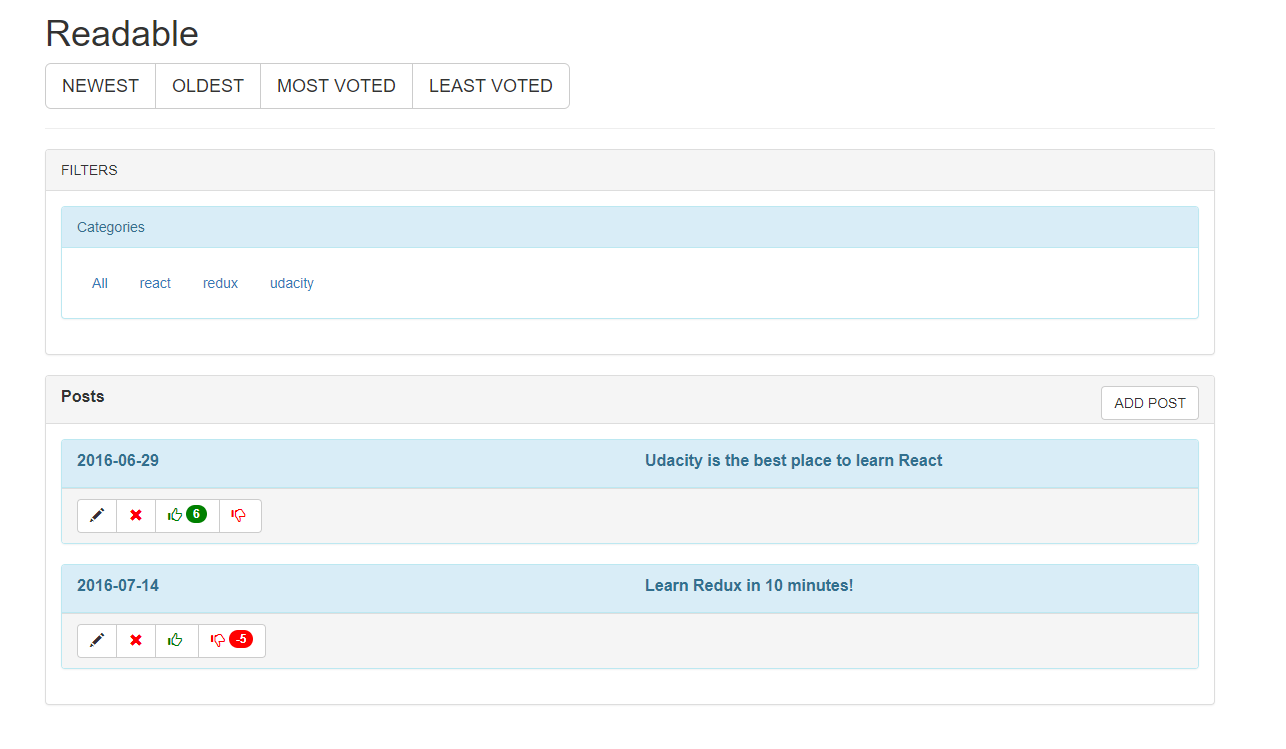
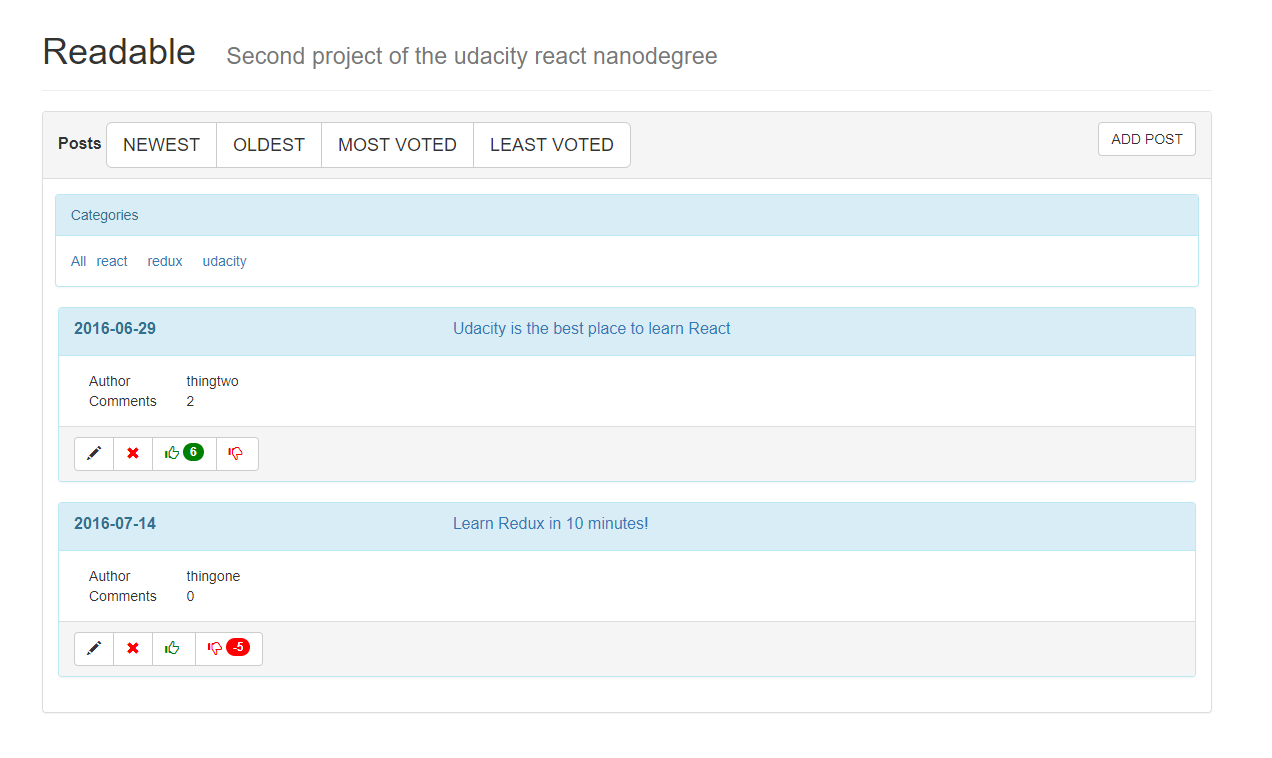
chore : Update project documentation fix : Add prop types for the project

diff --git a/frontend/src/components/PostDetail.js b/frontend/src/components/PostDetail.js
@@ -1,5 +1,6 @@
 import React, {Component} from 'react';
 import {connect} from 'react-redux';
+import PropTypes from 'prop-types';
 import {
     removePostAsync,
     voteForPostAsync,
@@ -72,8 +73,7 @@ class PostDetail extends Component {
               </Row>
               <Row>
                   <Col xs={12}>
-             
-								<ButtonGroup>
+                    <ButtonGroup>
                                 <Button onClick={() => (history.push('/'))}><Glyphicon glyph="chevron-left" /></Button>
 									<Button onClick={() => (this.openEditDialog(post))}><Glyphicon glyph="pencil" /></Button>
 									<Button onClick={() => (this.handleDelete(post.id))}>
@@ -87,12 +87,12 @@ class PostDetail extends Component {
                             </Col>
               </Row>
               <Row style={{marginTop:'1.5em'}}>
-               <Col xs={2}>
-               <Label>Author :</Label>
-               </Col>
-               <Col xs={6}>
-               {post.author}
-               </Col>
+                <Col xs={2}>
+                    <Label>Author :</Label>
+                </Col>
+                <Col xs={6}>
+                    {post.author}
+                </Col>
                </Row>
                <Row style={{marginBottom:'1.5em'}}>
                <Col xs={2}>
@@ -125,6 +125,17 @@ class PostDetail extends Component {
           </Grid>
         )
     }
+}
+
+PostDetail.propTypes = {
+    removePostAsync: PropTypes.func,
+    voteForPostAsync: PropTypes.func,
+    editPostAsync: PropTypes.func,
+    openDialog: PropTypes.func,
+    closeDialog: PropTypes.func,
+    postId: PropTypes.string.isRequired,
+    history: PropTypes.object.isRequired,
+    post: PropTypes.object.isRequired
 }
 
 const mapStateToProps = (state, ownProps) => ({

diff --git a/frontend/src/components/App.js b/frontend/src/components/App.js
@@ -1,5 +1,6 @@
 import React, { Component } from 'react';
 import {Switch,Route,withRouter} from 'react-router-dom';
+import PropTypes from 'prop-types';
 import Readable from './Readable';
 import PostDetail from './PostDetail';
 import NotFound from './NotFound';
@@ -35,7 +36,14 @@ componentDidMount() {
 	}
 }
 
-const mapStateToProps = (state, ownProps) => ({
+App.propTypes = {
+	categories: PropTypes.array.isRequired,
+	posts: PropTypes.array.isRequired,
+	fetchPosts: PropTypes.func.isRequired,
+	fetchCategories: PropTypes.func.isRequired
+}
+
+const mapStateToProps = (state) => ({
 	categories:state.categories.map((element)=>(element.path)),
 	posts:state.posts.postsArray.map((element)=>(element.id))
 })

diff --git a/frontend/src/components/Readable.js b/frontend/src/components/Readable.js
@@ -1,5 +1,6 @@
 import React, { Component } from 'react';
 import Posts from './Posts';
+import PropTypes from 'prop-types';
 import {
 	Grid,
 	Row,
@@ -21,6 +22,11 @@ class Readable extends Component {
 			</Grid>
 		);
 	}
+}
+
+Readable.propTypes = {
+	history: PropTypes.object.isRequired,
+	match: PropTypes.object.isRequired
 }
 
 export default Readable;

diff --git a/frontend/src/components/Comments.js b/frontend/src/components/Comments.js
@@ -61,7 +61,8 @@ Comments.propTypes = {
     editCommentAsync: PropTypes.func.isRequired,
     openCommentsDialog: PropTypes.func.isRequired,
     closeCommentsDialog: PropTypes.func,
-    addCommentAsync: PropTypes.func.isRequired
+    addCommentAsync: PropTypes.func.isRequired,
+    post: PropTypes.object
 
 }
 

diff --git a/frontend/src/components/Categories.js b/frontend/src/components/Categories.js
@@ -29,7 +29,8 @@ class Categories extends Component {
 }
 
 Categories.propTypes = {
-	fetchCategories: PropTypes.func.isRequired
+	fetchCategories: PropTypes.func.isRequired,
+	categories: PropTypes.array.isRequired
 }
 
 const mapStateToProps = (state) => ({

diff --git a/frontend/src/components/Post.js b/frontend/src/components/Post.js
@@ -30,7 +30,8 @@ class Post extends Component {
 
 
 Post.propTypes = {
-    post: PropTypes.object.isRequired
+    post: PropTypes.object.isRequired,
+    comments: PropTypes.array.isRequired
 }
 
 const mapStateToProps = (state, ownProps) => ({

diff --git a/frontend/src/components/CommentDetails.js b/frontend/src/components/CommentDetails.js
@@ -47,7 +47,7 @@ class CommentDetails extends Component {
     }
 
     render() {
-        let { comment } = this.props;
+        const { comment } = this.props;
         return (
             <Well >
                 <Grid>

diff --git a/frontend/README.md b/frontend/README.md
@@ -18,6 +18,7 @@ react-bootstrap components for the layout. It includes the following files:
   |-- index.js - application reducers
  +-- utils
   |-- api.js - calls to the backend API for retrieving and management of categories,comments and posts 
+  |-- helpers.js - Contains utility functions used in the application
  +-- components
   |-- App.js - Main application component.Renders the header,categories and posts components
   |-- Categories.js - Display of the posts' categories.Calls the action for filtering of posts by category
@@ -26,13 +27,16 @@ react-bootstrap components for the layout. It includes the following files:
   count of comments for a given post and a button for comments addition
   |-- CreateUpdateCommentDialog.js - Dialog for create/update of comments
   |-- CreateUpdatePostDialog.js - Add/edit posts dialog
-  |-- Header.js - Page Header components.Contains buttons for sorting of posts by vote and date
   |-- NotFound.js - 404 page of the app
-  |-- PostDetail.js - posts detail view component.Contains the author and body of a post and is rendered 
-  inside the post's panel 
+  |-- PostDetail.js - Displays detailed view for a post.Contains the post's body,voting mechanism and controls 
+  for update and deletion.Also displays the comments made for a given post and allows the user to add,edit or delete comments 
+  or vote for them.
+  |-- Post.js - Author and comments count for a given post. Visible on the main view of the posts
   |-- Posts.js - Main component for viewing the posts.Contains a panel with nested collapsible panels 
   for the posts.The button for new posts addition is on the panel's header.At the posts panels' footer 
   are the buttons for post edit,deletion and voting.
+  |-- Readable.js - Application main component.Contains the root view with the filters by category and
+  the buttons for addition,sorting,edit and deletion of posts.Allows the user to vote for posts.
 |-- .gitignore 
 |-- README.MD - This README file.
 |-- package.json - npm package manager file.
@@ -47,22 +51,21 @@ of categories for the posts and the posts panel with the button for adding a new
 
 ![Main screen](./assets/images/mainScreen.PNG)
 
-### Page header 
-
-![Header](./assets/images/header.PNG)
-
-Using the four buttons found at the page header,you can sort the posts in the following ways : 
-
-* NEWEST - by descending order of date 
-* OLDEST - by ascending order of date 
-* MOST VOTED - by descending voteScore
-* LEAST VOTED - by ascending voteScore
-
 ### Posts panel 
 
 ![postsPanel](./assets/images/postsPanel.PNG)
 
-The posts panel displays the existing posts and allows the addition,deletion,modification,upvoting and downvoting of posts.
+The posts panel displays the existing posts and allows the sorting,
+addition,deletion,modification,upvoting and downvoting of posts.
+
+### Sorting of posts 
+
+To sort the displayed posts in a given way, you should use the buttons at
+the panel's header.The possible sort orders are:
+* NEWEST - By descending order of date 
+* OLDEST - By ascending order of date 
+* MOST VOTED - By descending vote score
+* LEAST VOTED - by ascending vote score
 
 #### Addition of new posts 
 
@@ -101,11 +104,23 @@ To update the post,the user should press the CONFIRM button
 
 #### Post details 
 
-Clicking the header of the panel for a given post displays the post details:
+Clicking the header of the panel for a given post takes you to the post's
+detail page: 
 
 ![postsDetail](./assets/images/postsDetail.PNG)
 
-The details for a post contain the post's author body and comments(if present).The badge next to the 'Comments' label shows the comments count for a post.The button in the right of the row allows the user to add a new comment.
+The details for a post contain the post's author,date,body and comments(if present).The badge next to the 'Comments' label shows the comments count for a post.The button in the right of the row allows the user to add a new comment.
+
+By using the toolbar under the post's title,you can :
+* Go back to the main screen 
+* Edit the displayed post 
+* Delete the post
+* Upvote it 
+* Downvote it 
+
+![postDetailsToolbar](./assets/images/postDetailsToolbar.PNG)
+
+When you delete a post from the details screen,its URL becomes inaccessible and you are taken back to the main screen
 
 #### Adding a new comment
 

diff --git a/README.md b/README.md
@@ -11,6 +11,10 @@ This is the second project of the Udacity React nanodegree. It consists of 2 par
   with module react-overlays updated to 0.7.3,due to issue with react-bootstrap modal dialogs in React v.16.
   Async calls in redux are done using the redux-thunk middleware (https://github.com/gaearon/redux-thunk)
   The frontend part of the project can be accessed at URL : http://localhost:3000
+  The posts for a specific category can be viewed at : http://localhost:3000/category , where category is one of the 
+  posts' categories existing in the app (the defaults are react,redux and udacity)
+  The post details page for a given post is accessible at: http://localhost:3000/category/postId , where category is one of the 
+  available posts' categories and postId is the post's identifier.
 
 ## Starting the project 
 
